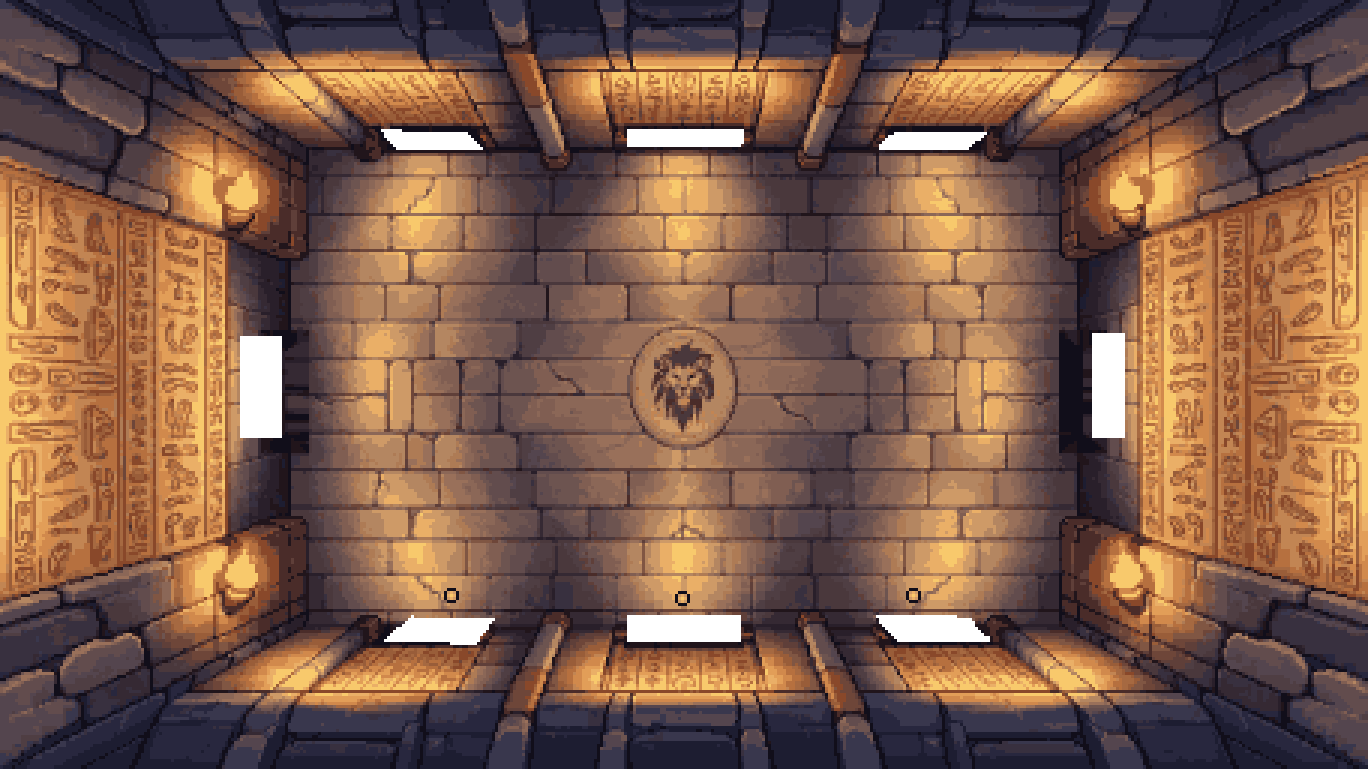
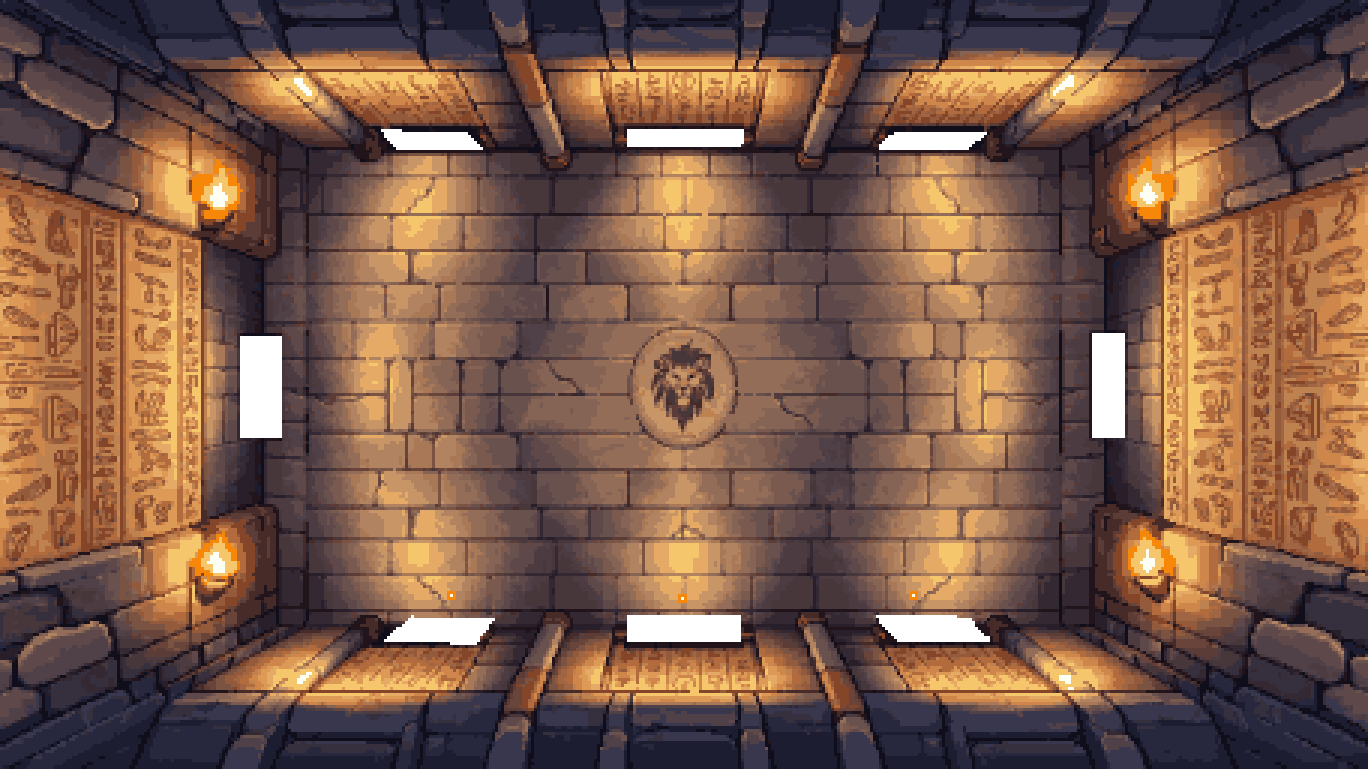
Align side openings, add torch flame colours, despeckle room render
- Stretch the left and right faces so the theme's dark side slots land on
  the structure's openings, instead of leaving a dark pocket beside them.
- Sample the torch flame core and body colours from the theme and add them
  to the palette (34 colours). Candles now use them: white core, orange halo.
- Repaint lone cells with a 5-of-8 neighbour majority colour to cut speckle.
  One-cell mortar lines are kept.

Claude-Session: https://claude.ai/code/session_01XsY4W4icShbF6tZj1Bju8u

diff --git a/pixel-room/render_room.py b/pixel-room/render_room.py
@@ -4,10 +4,12 @@
 The structure image fixes the geometry: the room faces, the openings (the
 transparent holes), and the candle positions. The theme image supplies the
 look: stone, hieroglyphs, torches, the lion emblem and the palette. Each room
-face is mapped from the structure to the theme with a homography, sampled, and
-snapped to a grid of CELL x CELL output pixels, so every block is one flat colour.
+face is mapped from the structure to the theme with a homography, stretched so
+the theme's side slots land on the structure's openings, sampled, and snapped
+to a grid of CELL x CELL output pixels, so every block is one flat colour.
 
-A reskin is a new theme image with its THEME_FACES quads measured on it.
+A reskin is a new theme image with its THEME_FACES, THEME_HOLES, HOLE_ALIGN and
+TORCHES measured on it.
 
 Usage:
     python3 render_room.py [structure.webp] [theme.webp] [out.png]
@@ -20,6 +22,7 @@ from PIL import Image, ImageDraw
 
 CELL = 3  # output pixels per art pixel: 1368 = 456 * 3, and 769 = 255 * 3 + 4
 PALETTE_SIZE = 32
+UNIT = [(0, 0), (1, 0), (1, 1), (0, 1)]
 LUMA = np.array([0.299, 0.587, 0.114])
 
 # Room faces as quads, in the same semantic corner order in both images.
@@ -42,8 +45,16 @@ THEME_FACES = {
 THEME_HOLES = [
     (411, 140, 571, 181), (754, 140, 916, 175), (1098, 140, 1260, 178),
     (409, 750, 571, 786), (753, 752, 917, 787), (1098, 750, 1261, 786),
-    (264, 378, 317, 561), (1355, 378, 1407, 561),
+    (266, 396, 316, 542), (1358, 396, 1406, 542),
 ]
+# Side openings per face: (structure hole box, theme slot box), both (x0, y0, x1, y1).
+# The face is stretched so the theme slot lands on the structure hole.
+HOLE_ALIGN = {
+    'left': ((240, 335, 282, 439), (266, 396, 316, 542)),
+    'right': ((1091, 333, 1126, 438), (1358, 396, 1406, 542)),
+}
+# Torch flame centres in the theme image (x, y). Their colours are added to the palette.
+TORCHES = [(245, 230), (1425, 230), (245, 690), (1425, 690)]
 # Candle flame centres in the structure image (x, y).
 CANDLES = [(452, 596), (683, 597), (914, 596)]
 
@@ -57,6 +68,29 @@ def homography(src, dst):
         rhs.extend([u, v])
     h = np.linalg.solve(np.array(rows, float), np.array(rhs, float))
     return np.append(h, 1).reshape(3, 3)
+
+
+def project(h, pts):
+    """Apply the homography h to points of shape (2, N); returns shape (2, N)."""
+    q = h @ np.vstack([pts, np.ones(pts.shape[1])])
+    return q[:2] / q[2]
+
+
+def uv_range(h, box):
+    """Return the (min, max) of the face coordinates of a pixel box, as two (u, v) pairs."""
+    x0, y0, x1, y1 = box
+    uv = project(h, np.array([[x0, x1, x1, x0], [y0, y0, y1, y1]], float))
+    return uv.min(axis=1), uv.max(axis=1)
+
+
+def stretch(x, src, dst):
+    """Piecewise-linear map of a face coordinate: src (lo, hi) lands on dst (lo, hi).
+
+    Outside the span the map keeps the original scale, so only the opening is stretched.
+    """
+    s0, s1 = src
+    t0, t1 = dst
+    return np.interp(x, [0, s0, s1, 1], [t0 - s0, t0, t1, t1 + 1 - s1])
 
 
 def fill_theme_holes(theme):
@@ -103,19 +137,54 @@ def block_sum(arr, ey, ex):
     return np.add.reduceat(rows, ex[:-1], axis=1)
 
 
+def flame_colours(theme):
+    """Core (the brightest) and body (the most saturated) colours of the torch flames."""
+    core, body = [], []
+    for cx, cy in TORCHES:
+        sub = theme[cy - 14:cy + 15, cx - 14:cx + 15].reshape(-1, 3)
+        core.append(sub[np.argsort(-(sub @ LUMA))[:8]].mean(axis=0))
+        body.append(sub[np.argsort(-(sub[:, 0] - sub[:, 2]))[:8]].mean(axis=0))
+    return np.array([np.mean(core, axis=0), np.mean(body, axis=0)])
+
+
 def snap_to_palette(colours, keep):
     """Quantise the kept cell colours to at most PALETTE_SIZE colours."""
     pix = np.clip(np.round(colours[keep]), 0, 255).astype(np.uint8)
     img = Image.fromarray(pix[None, :, :]).quantize(
         colors=PALETTE_SIZE, method=Image.Quantize.MEDIANCUT, dither=Image.Dither.NONE)
     table = np.array(img.getpalette()[:256 * 3], np.uint8).reshape(-1, 3)
-    palette = table[np.unique(np.array(img)[0])]
-    return palette
+    return table[np.unique(np.array(img)[0])]
 
 
 def nearest(palette, colour):
     d = ((palette - np.asarray(colour, float)) ** 2).sum(axis=1)
     return palette[d.argmin()]
+
+
+def despeckle(cells):
+    """Repaint a lone cell with the colour that holds at least 5 of its 8 neighbours.
+
+    A cell is lone when its colour differs from all four orthogonal neighbours, so
+    one-cell mortar lines survive. Decisions use the input grid, so changes do not cascade.
+    """
+    src = cells.copy()
+    for y in range(1, cells.shape[0] - 1):
+        for x in range(1, cells.shape[1] - 1):
+            if src[y, x, 3] == 0:
+                continue
+            c = src[y, x, :3]
+            ortho = (src[y - 1, x], src[y + 1, x], src[y, x - 1], src[y, x + 1])
+            if any(n[3] == 255 and (n[:3] == c).all() for n in ortho):
+                continue
+            ring = src[y - 1:y + 2, x - 1:x + 2].reshape(-1, 4)
+            ring = np.delete(ring, 4, axis=0)  # drop the centre cell
+            ring = ring[ring[:, 3] == 255][:, :3]
+            if len(ring) == 0:
+                continue
+            colours, counts = np.unique(ring, axis=0, return_counts=True)
+            if counts.max() >= 5:
+                cells[y, x, :3] = colours[counts.argmax()]
+    return cells
 
 
 def render(structure, theme):
@@ -129,11 +198,17 @@ def render(structure, theme):
     ys, xs = np.mgrid[0:sh, 0:sw]
     for i, (name, quad) in enumerate(STRUCTURE_FACES.items()):
         m = labels == i
-        h = homography(quad, THEME_FACES[name])
-        p = np.stack([xs[m] + 0.5, ys[m] + 0.5, np.ones(m.sum())])
-        q = h @ p
-        u = np.clip(np.floor(q[0] / q[2]).astype(int), 0, tw - 1)
-        v = np.clip(np.floor(q[1] / q[2]).astype(int), 0, th - 1)
+        to_uv = homography(quad, UNIT)
+        uv = project(to_uv, np.stack([xs[m] + 0.5, ys[m] + 0.5]))
+        if name in HOLE_ALIGN:
+            s_box, t_box = HOLE_ALIGN[name]
+            s_lo, s_hi = uv_range(to_uv, s_box)
+            t_lo, t_hi = uv_range(homography(THEME_FACES[name], UNIT), t_box)
+            for axis in (0, 1):
+                uv[axis] = stretch(uv[axis], (s_lo[axis], s_hi[axis]), (t_lo[axis], t_hi[axis]))
+        tp = project(homography(UNIT, THEME_FACES[name]), uv)
+        u = np.clip(np.floor(tp[0]).astype(int), 0, tw - 1)
+        v = np.clip(np.floor(tp[1]).astype(int), 0, th - 1)
         colour[m] = theme[v, u]
 
     ey = np.array(cell_edges(sh))
@@ -144,21 +219,19 @@ def render(structure, theme):
 
     keep = ~cell_hole
     palette = snap_to_palette(cell_colour, keep)
+    palette = np.vstack([palette, np.round(flame_colours(theme)).astype(np.uint8)])
     cells = np.zeros(cell_colour.shape[:2] + (4,), np.uint8)
     cells[keep, :3] = [nearest(palette, c) for c in cell_colour[keep]]
     cells[keep, 3] = 255
+    cells = despeckle(cells)
 
-    ranked = palette[np.argsort(-(palette.astype(float) @ LUMA))]
+    core, body = palette[-2], palette[-1]
     for cx, cy in CANDLES:
         gx, gy = int(cx) // CELL, int(cy) // CELL
-        for dy in range(-2, 3):
-            for dx in range(-2, 3):
-                d2 = dx * dx + dy * dy
-                if d2 > 5 or cell_hole[gy + dy, gx + dx]:
-                    continue
-                # Bright flame core, then a dark rounded outline so it reads on the lit wall.
-                rank = 0 if d2 == 0 else 1 if d2 == 1 else 3 if d2 == 2 else -1
-                cells[gy + dy, gx + dx, :3] = ranked[rank]
+        for dy in (-1, 0, 1):
+            for dx in (-1, 0, 1):
+                if not cell_hole[gy + dy, gx + dx]:
+                    cells[gy + dy, gx + dx, :3] = core if dx == dy == 0 else body
 
     out = np.repeat(np.repeat(cells, np.diff(ey), axis=0), np.diff(ex), axis=1)
     return out, palette
